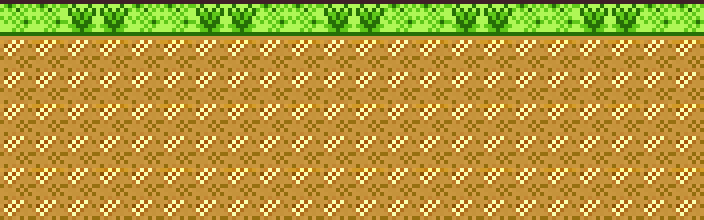
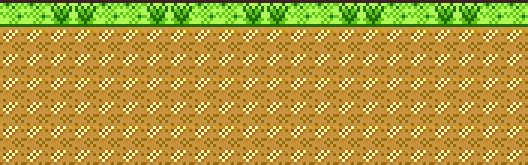
Going Ham on the final...! Success on the background so far, and audio is good. Lots more to do though

diff --git a/Final Project/Pidgeys Adventures/sketch.js b/Final Project/Pidgeys Adventures/sketch.js
@@ -4,42 +4,119 @@ var through;
 var wing;
 var daytime;
 var nightA;
+var title;
+
+var sky;
+var trees;
+var buildings;
+var ground;
+var pipebird;
+var tower;
+
+var groundX = 0;
+var treeX = 0;
+var buildX = 0;
 
 
-function preload() {
+
+function preload() { //this is to load all of the asset information
   daytime = round(random(1));
-  nightA = round(random(1));
+  nightA = round(random(2));
+
+  // assets that will always be used
+  pipebird = loadImage('assets/pipeB.png');
   smack = loadSound('assets/Smack.mp3');
   through = loadSound('assets/Through.mp3');
   wing = loadSound('assets/wing.ogg');
+  
+  //I'm going to need a "info" array to put my title image, tap image and game over image within.
+  title = loadImage('assets/title.png');
 
+  //depending on what daytime info is given, will dictate what specific assets load
   if (daytime == 1) {
     music = loadSound('assets/route38.mp3');
-    //daytime = false;
-  } else if (nightA == 0) {
-    music = loadSound('assets/goldenrod.mp3')
+    sky = loadImage('assets/backgroundD.png');
+    buildings = loadImage('assets/buildingsD.png');
+    trees = loadImage('assets/treesD.png');
+    ground = loadImage('assets/groundD.png');
+    tower = loadImage('assets/pipeD.png');
 
+
+    //daytime = false;
   } else {
-    music = loadSound('assets/gamecorner.mp3');
-    // daytime = true;
-    //nightA = false;
+    sky = loadImage('assets/backgroundN.png');
+    buildings = loadImage('assets/buildingsN.png');
+    trees = loadImage('assets/treesN.png');
+    ground = loadImage('assets/groundN.png');
+    tower = loadImage('assets/pipeN.png');
+
+    if (nightA < 2) {
+      music = loadSound('assets/goldenrod.mp3')
+
+    } else {
+      music = loadSound('assets/gamecorner.mp3');
+      // daytime = true;
+      //nightA = false;
+    }
   }
 }
 
 function setup() {
-  createCanvas(800, 400);
-  createSprite(200, 200, 50, 50);
+  createCanvas(432, 768);
+  
+
+
+  createSprite(width / 2, 200, 20, 30);
+  createSprite(40, height/2, 50, 50);
 
   music.setVolume(0.05);
   music.play();
+
 }
 
 function draw() {
-  background(0);
-  drawSprites();
+  background(sky);
+  imageMode(CORNER);
+  
+  //this is to place the shit in the canvas
+  //placeItems(sky, buildings, trees, ground, tower); //would an array work in here?
+  //using my original layout image, I got coordinances to where each piece is to be placed
+  //originally these were in setup, but nothing was being drawn, so although groundX was being incrimented, the
+  //...image was stuck.
+  image(buildings, buildX, 272);
+  image(trees, treeX, 423);
+  image(ground, groundX, 603);
+
+  //drawSprites();
+  
+  
   fill(255);
   text(daytime, 10, 10);
   text(nightA, 10, 20);
+
+  groundX = groundX - 2;
+  //the math of 96 is the width of Ground: 528 subtract the width of the background/canvas: 432 = 96
+  //I made the sprites so they would tile, thus although jumping back LOOKS like a long movement
+  if (groundX <= -96) {
+    groundX = 0
+  }
+  //the tree math was similar, but after runing into issue of it cutting half a tree off, I had to figure what
+  //..half a tree is pixels and "add" that to the negative number.
+  if (frameCount % 10 === 0) {
+    treeX = treeX - 2;
+    if (treeX <= -192) {
+      treeX = 0;
+    }
+  }
+  if (frameCount % 60 === 0) {
+    buildX = buildX - 2;
+    if (buildX <= -144) {
+      buildX = 0;
+    }
+  }
+  
+  imageMode(CENTER);
+  image(title, width/2, height/4);
 }
 
 function mousePressed() {

diff --git a/Final Project/Pidgeys Adventures/loadinfo.js b/Final Project/Pidgeys Adventures/loadinfo.js
@@ -1,26 +1,3 @@
-var Load = function() {
-  this.smack = loadSound('assets/Smack.mp3');
-  this.through = loadSound('assets/Through.mp3');
-  this.wing = loadSound('assets/wing.ogg');
-  this.music
-
-
-  this.daytime = true;
-  this.nightA = true;
-
-  if (this.daytime) {
-    this.music = loadSound('assets/route38.mp3');
-    this.daytime = false;
-  } else {
-    if (this.nightA) {
-      this.music = loadSound('assets/goldenrod.mp3');
-      this.daytime = true;
-      this.nightA = false;
-    } else {
-      this.music = loudSound('assets/gamecorner.mp3');
-      this.daytime = true;
-      this.nightA = true;
-    }
-  }
-  return this.music;
-}
+function placeItems(sky, buildings, trees, ground, tower){
+  image(buildings,352,0);
+};
